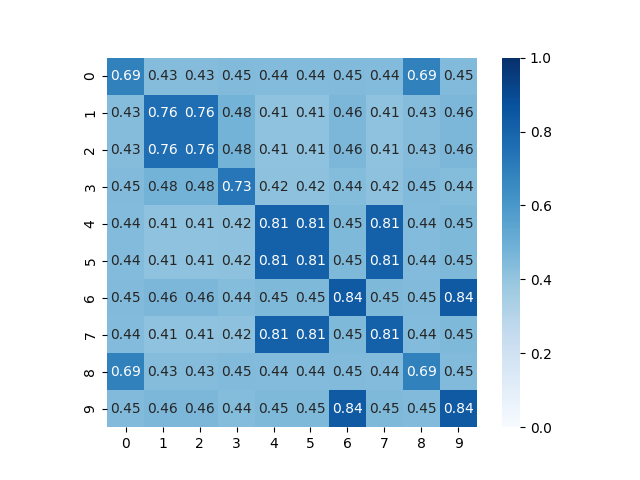
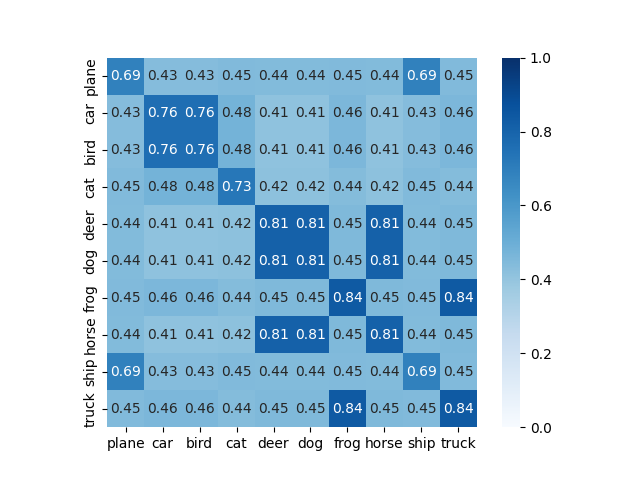
CIFAR10 Labels

diff --git a/embed_stats.py b/embed_stats.py
@@ -34,10 +34,10 @@ def cos_sim_conf_mat(embeds, labels):
     return conf_mat
 
 
-def plot_conf_mat(conf_mat):
+def plot_conf_mat(conf_mat, labels="auto"):
     fig, ax = plt.subplots()
     ax = sns.heatmap(conf_mat, vmin=0, vmax=1, cmap="Blues", annot=True, fmt=".2f", square=True,
-                     ax=ax)
+                     ax=ax, xticklabels=labels, yticklabels=labels)
     return fig
 
 
@@ -48,6 +48,8 @@ if __name__ == "__main__":
                    Path("save/linear/cifar10_models/cifar10_lr_5.0_bsz_512_old/")]
     fig_folder = Path("figures/confusion")
     fig_folder.mkdir(exist_ok=True)
+    # CIFAR10 labels
+    labels = ('plane', 'car', 'bird', 'cat', 'deer', 'dog', 'frog', 'horse', 'ship', 'truck')
     # calculate embedding statistics
     for out_folder in out_folders:
         print(out_folder)
@@ -59,5 +61,5 @@ if __name__ == "__main__":
         else:
             conf_mat = torch.load(out_folder / "conf_mat.pth")
         print(conf_mat)
-        plot_conf_mat(conf_mat).savefig(fig_folder / (out_folder.name + ".png"))
+        plot_conf_mat(conf_mat, labels).savefig(fig_folder / (out_folder.name + ".png"))
         print()
